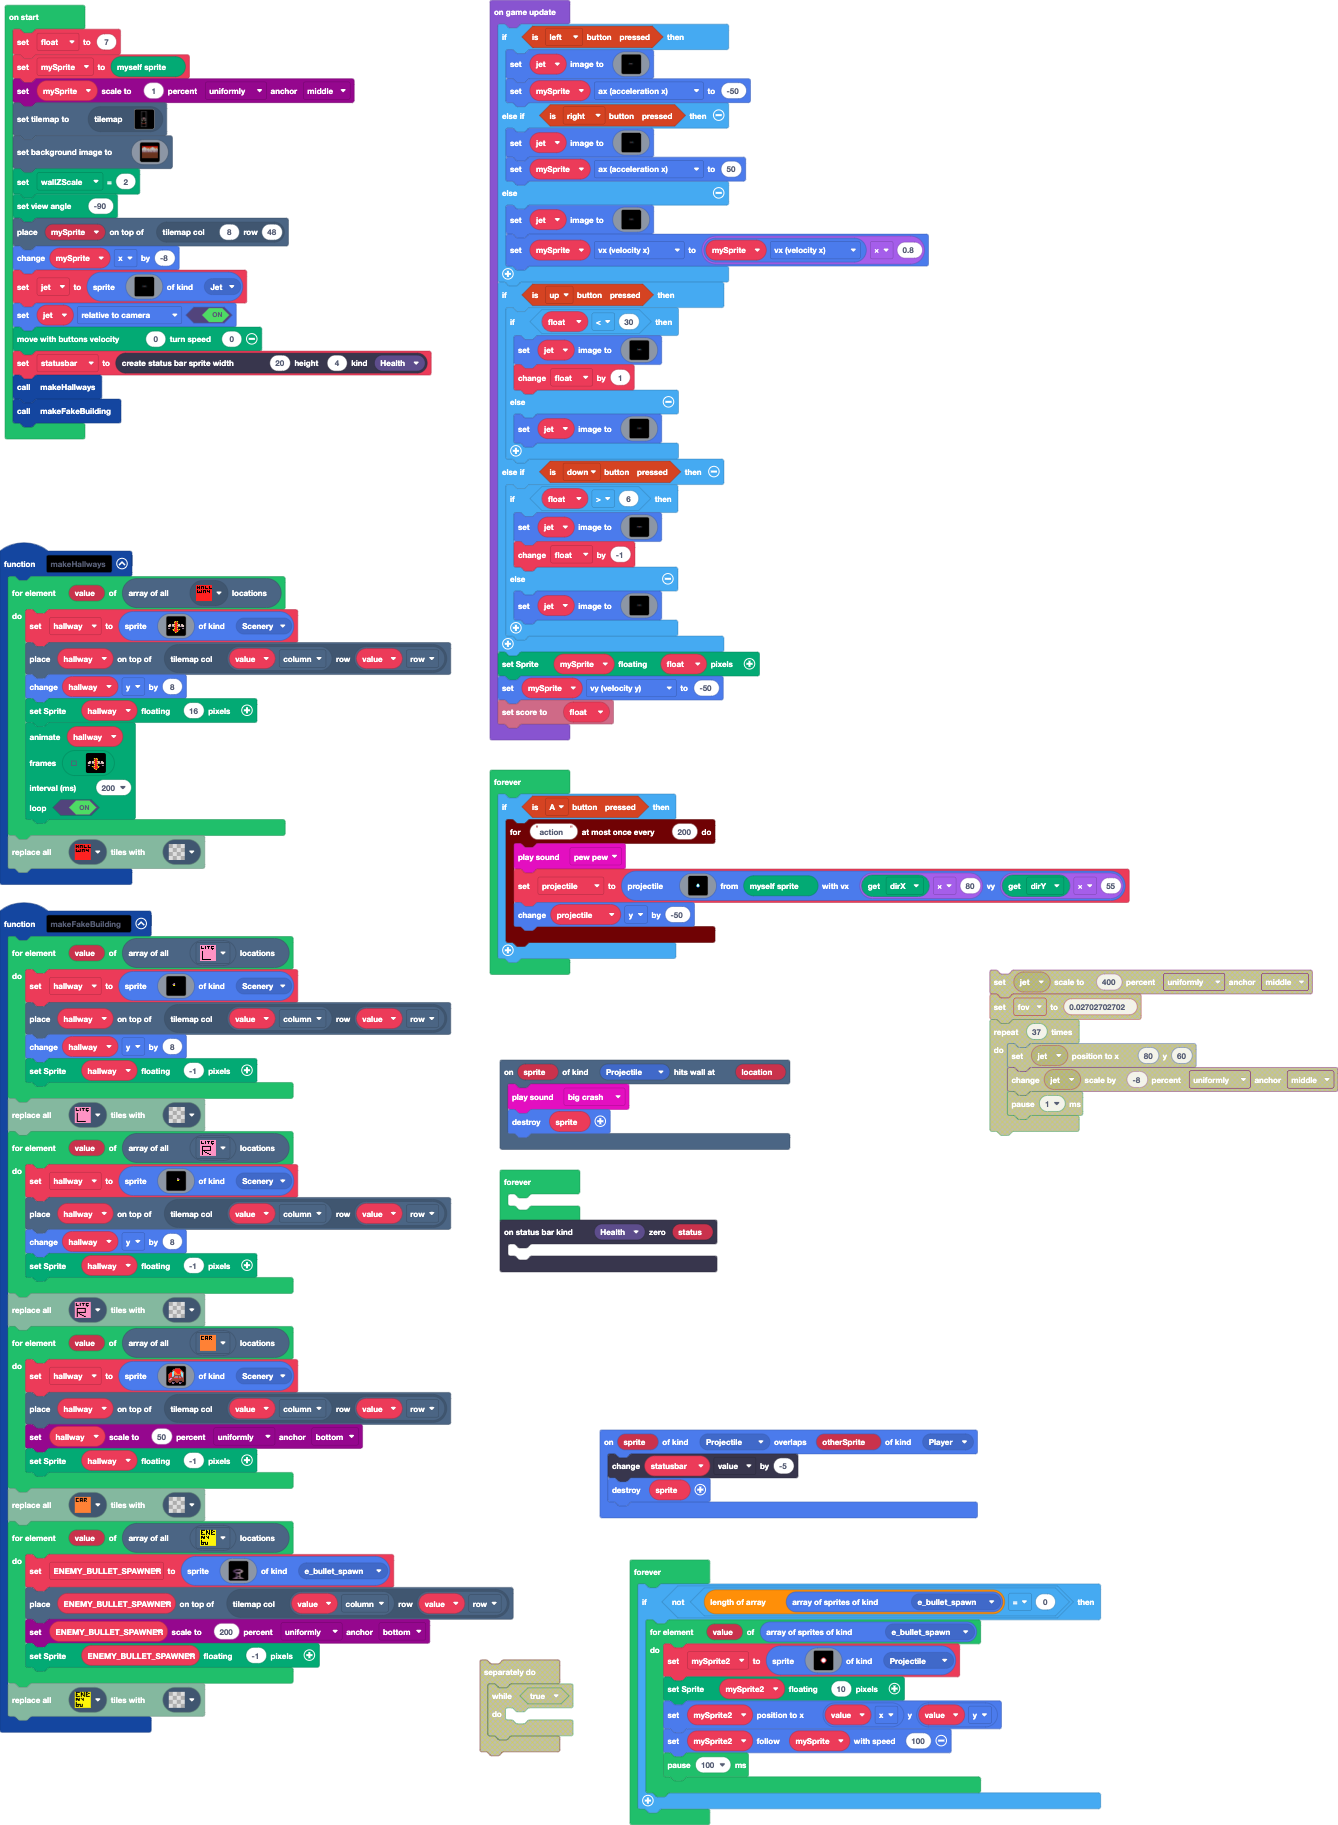
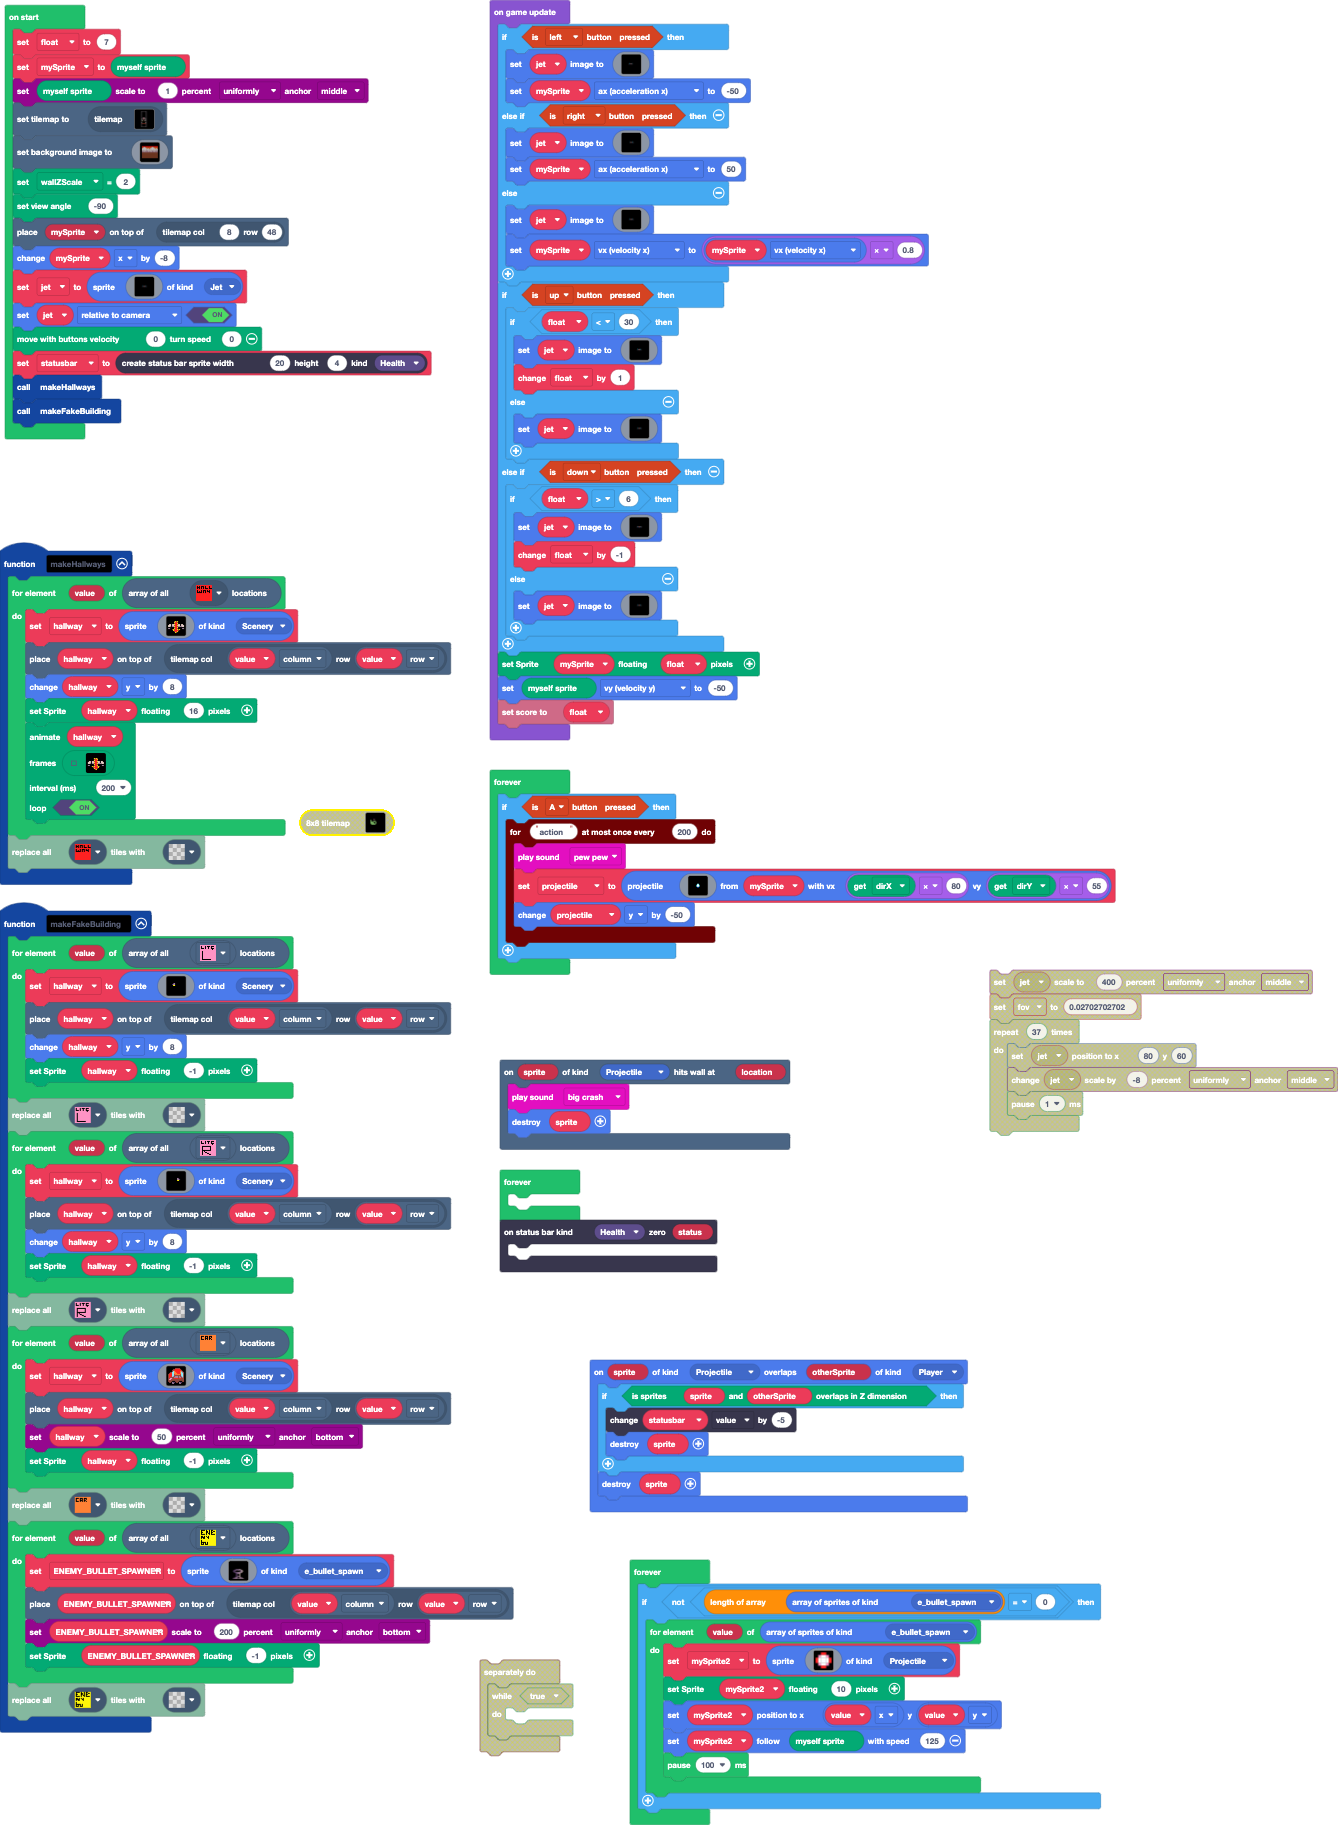
Update main.blocks, main.ts, tilemap.g.jres, tilemap.g.ts

diff --git a/main.ts b/main.ts
@@ -34,7 +34,10 @@ function makeFakeBuilding () {
     tiles.replaceAllTiles(assets.tile`myTile13`, assets.tile`transparency16`)
 }
 sprites.onOverlap(SpriteKind.Projectile, SpriteKind.Player, function (sprite, otherSprite) {
-    statusbar.value += -5
+    if (Render.isSpritesOverlapZ(sprite, otherSprite)) {
+        statusbar.value += -5
+        sprite.destroy()
+    }
     sprite.destroy()
 })
 function makeHallways () {
@@ -66,7 +69,7 @@ let hallway: Sprite = null
 let statusbar: StatusBarSprite = null
 let float = 7
 let mySprite = Render.getRenderSpriteVariable()
-scaling.scaleToPercent(mySprite, 1, ScaleDirection.Uniformly, ScaleAnchor.Middle)
+scaling.scaleToPercent(Render.getRenderSpriteInstance(), 1, ScaleDirection.Uniformly, ScaleAnchor.Middle)
 tiles.setCurrentTilemap(tilemap`level`)
 scene.setBackgroundImage(assets.image`cityscape`)
 Render.setAttribute(Render.attribute.wallZScale, 2)
@@ -106,14 +109,14 @@ game.onUpdate(function () {
         }
     }
     Render.setZOffset(mySprite, float)
-    mySprite.vy = -50
+    Render.getRenderSpriteInstance().vy = -50
     info.setScore(float)
 })
 forever(function () {
     if (controller.A.isPressed()) {
         timer.throttle("action", 200, function () {
             music.pewPew.play()
-            projectile = sprites.createProjectileFromSprite(assets.image`explosion1`, Render.getRenderSpriteInstance(), Render.getAttribute(Render.attribute.dirX) * 80, Render.getAttribute(Render.attribute.dirY) * 55)
+            projectile = sprites.createProjectileFromSprite(assets.image`explosion1`, mySprite, Render.getAttribute(Render.attribute.dirX) * 80, Render.getAttribute(Render.attribute.dirY) * 55)
             projectile.y += -50
         })
     }
@@ -125,26 +128,16 @@ forever(function () {
     if (!(sprites.allOfKind(SpriteKind.e_bullet_spawn).length == 0)) {
         for (let value of sprites.allOfKind(SpriteKind.e_bullet_spawn)) {
             mySprite2 = sprites.create(img`
-                . . . . . . . . . . . . . . . . 
-                . . . . . . . . . . . . . . . . 
-                . . . . . . . . . . . . . . . . 
-                . . . . . . . . . . . . . . . . 
-                . . . . . . . . . . . . . . . . 
-                . . . . . . . 2 2 . . . . . . . 
-                . . . . . . 3 1 1 3 . . . . . . 
-                . . . . . 2 1 1 1 1 2 . . . . . 
-                . . . . . 2 1 1 1 1 2 . . . . . 
-                . . . . . . 3 1 1 3 . . . . . . 
-                . . . . . . . 2 2 . . . . . . . 
-                . . . . . . . . . . . . . . . . 
-                . . . . . . . . . . . . . . . . 
-                . . . . . . . . . . . . . . . . 
-                . . . . . . . . . . . . . . . . 
-                . . . . . . . . . . . . . . . . 
+                . . 2 2 . . 
+                . 3 1 1 3 . 
+                2 1 1 1 1 2 
+                2 1 1 1 1 2 
+                . 3 1 1 3 . 
+                . . 2 2 . . 
                 `, SpriteKind.Projectile)
             Render.setZOffset(mySprite2, 10)
             mySprite2.setPosition(value.x, value.y)
-            mySprite2.follow(mySprite, 100)
+            mySprite2.follow(Render.getRenderSpriteInstance(), 125)
             pause(100)
         }
     }

diff --git a/tilemap.g.ts b/tilemap.g.ts
@@ -32,6 +32,10 @@ namespace myTiles {
     export const tile14 = image.ofBuffer(hex``);
     //% fixedInstance jres blockIdentity=images._tile
     export const tile15 = image.ofBuffer(hex``);
+    //% fixedInstance jres blockIdentity=images._tile
+    export const transparency8 = image.ofBuffer(hex``);
+    //% fixedInstance jres blockIdentity=images._tile
+    export const tile16 = image.ofBuffer(hex``);
 
     helpers._registerFactory("tilemap", function(name: string) {
         switch(helpers.stringTrim(name)) {
@@ -202,6 +206,24 @@ namespace myTiles {
 2..............2
 2222222222222222
 `, [myTiles.transparency16,myTiles.tile1,myTiles.tile2,myTiles.tile4,myTiles.tile7,myTiles.tile8,myTiles.tile9,myTiles.tile10,myTiles.tile11,myTiles.tile12,myTiles.tile13,myTiles.tile14,myTiles.tile15], TileScale.Sixteen);
+            case "level8":
[1 lines of base64/hex data omitted]
+. . . . . . . . . . . . . . . . . . . . 
+. . . . . . . . . . . . . . . . . . . . 
+. . . . . . . . . . . . . . . . . . . . 
+. . . . . . . . . . . . . . . . . . . . 
+. . . . . . . . . . . . . . . . . . . . 
+. . . . . . . . . . . . . . . . . . . . 
+. . . . . . . . . . . . . . . . . . . . 
+. . . . . . . . . . . . . . . . . . . . 
+. . . . . . . . . . . . . . . . . . . . 
+. . . . . . . . . . . . . . . . . . . . 
+. . . . . . . . . . . . . . . . . . . . 
+. . . . . . . . . . . . . . . . . . . . 
+. . . . . . . . . . . . . . . . . . . . 
+. . . . . . . . . . . . . . . . . . . . 
+. . . . . . . . . . . . . . . . . . . . 
+`, [myTiles.transparency8,sprites.castle.tileGrass2,myTiles.tile16], TileScale.Eight);
         }
         return null;
     })
@@ -239,6 +261,9 @@ namespace myTiles {
             case "tile14":return tile14;
             case "myTile13":
             case "tile15":return tile15;
+            case "transparency8":return transparency8;
+            case "myTile14":
+            case "tile16":return tile16;
         }
         return null;
     })
